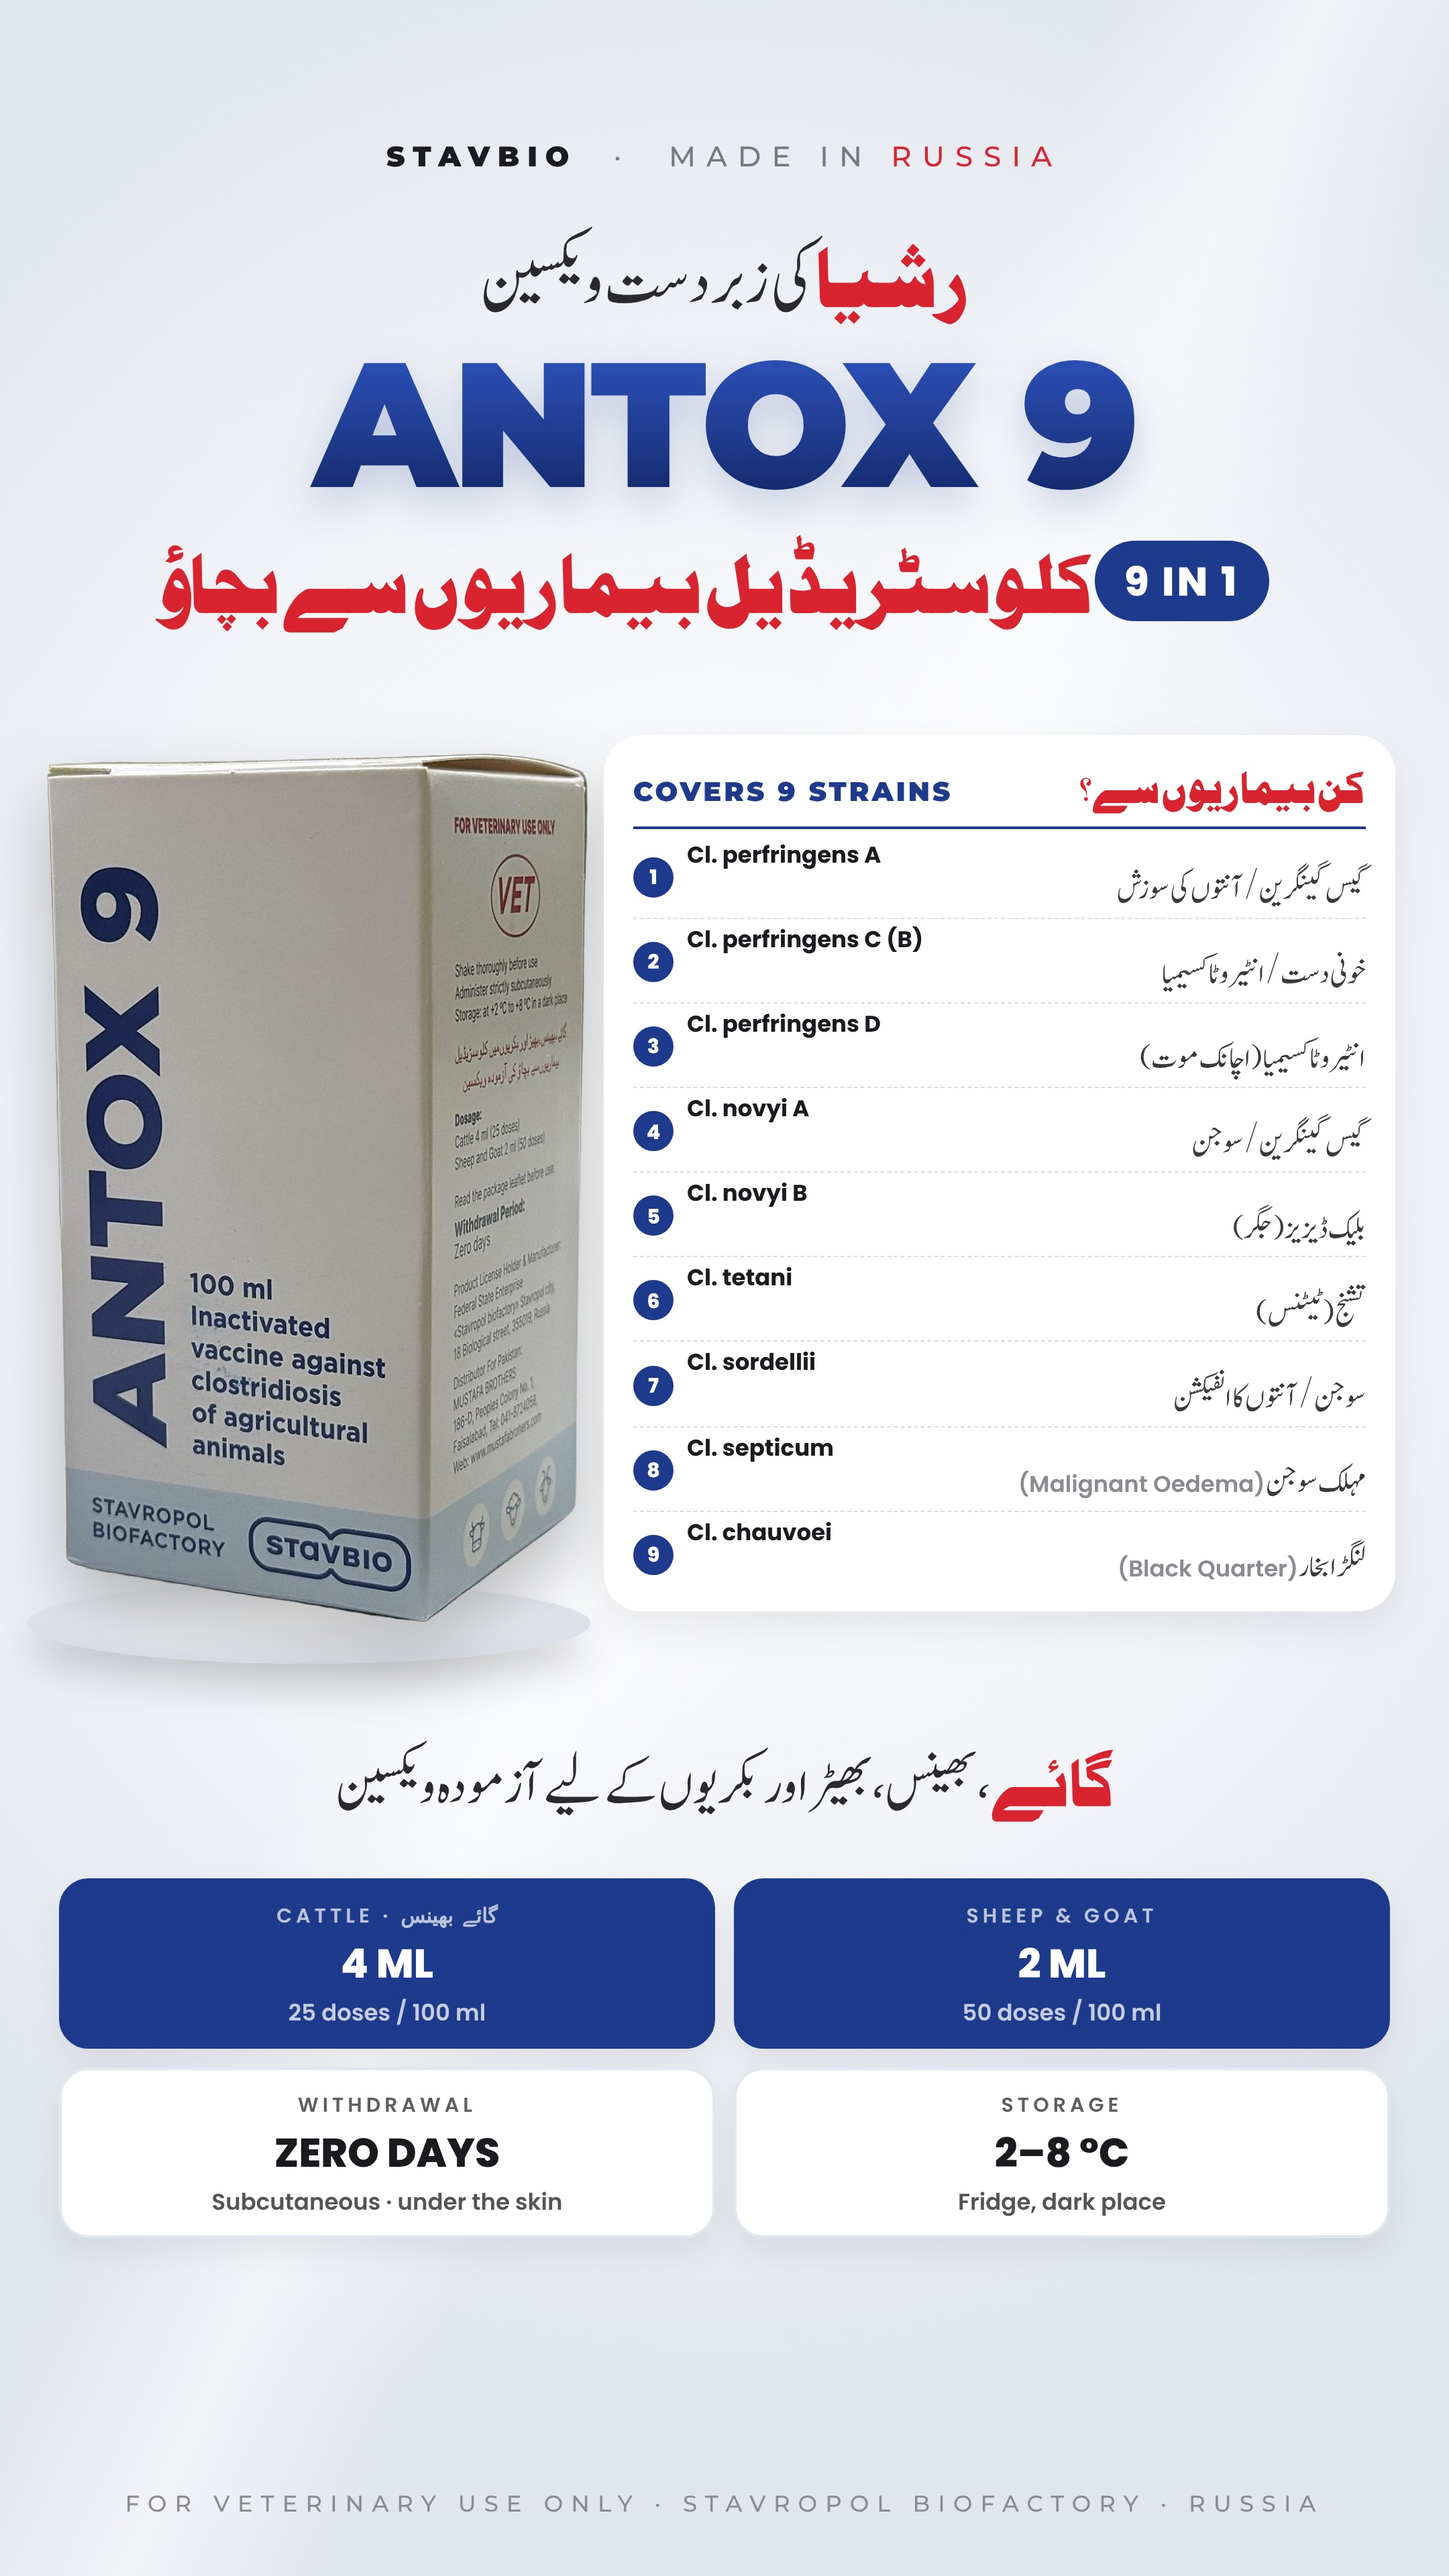
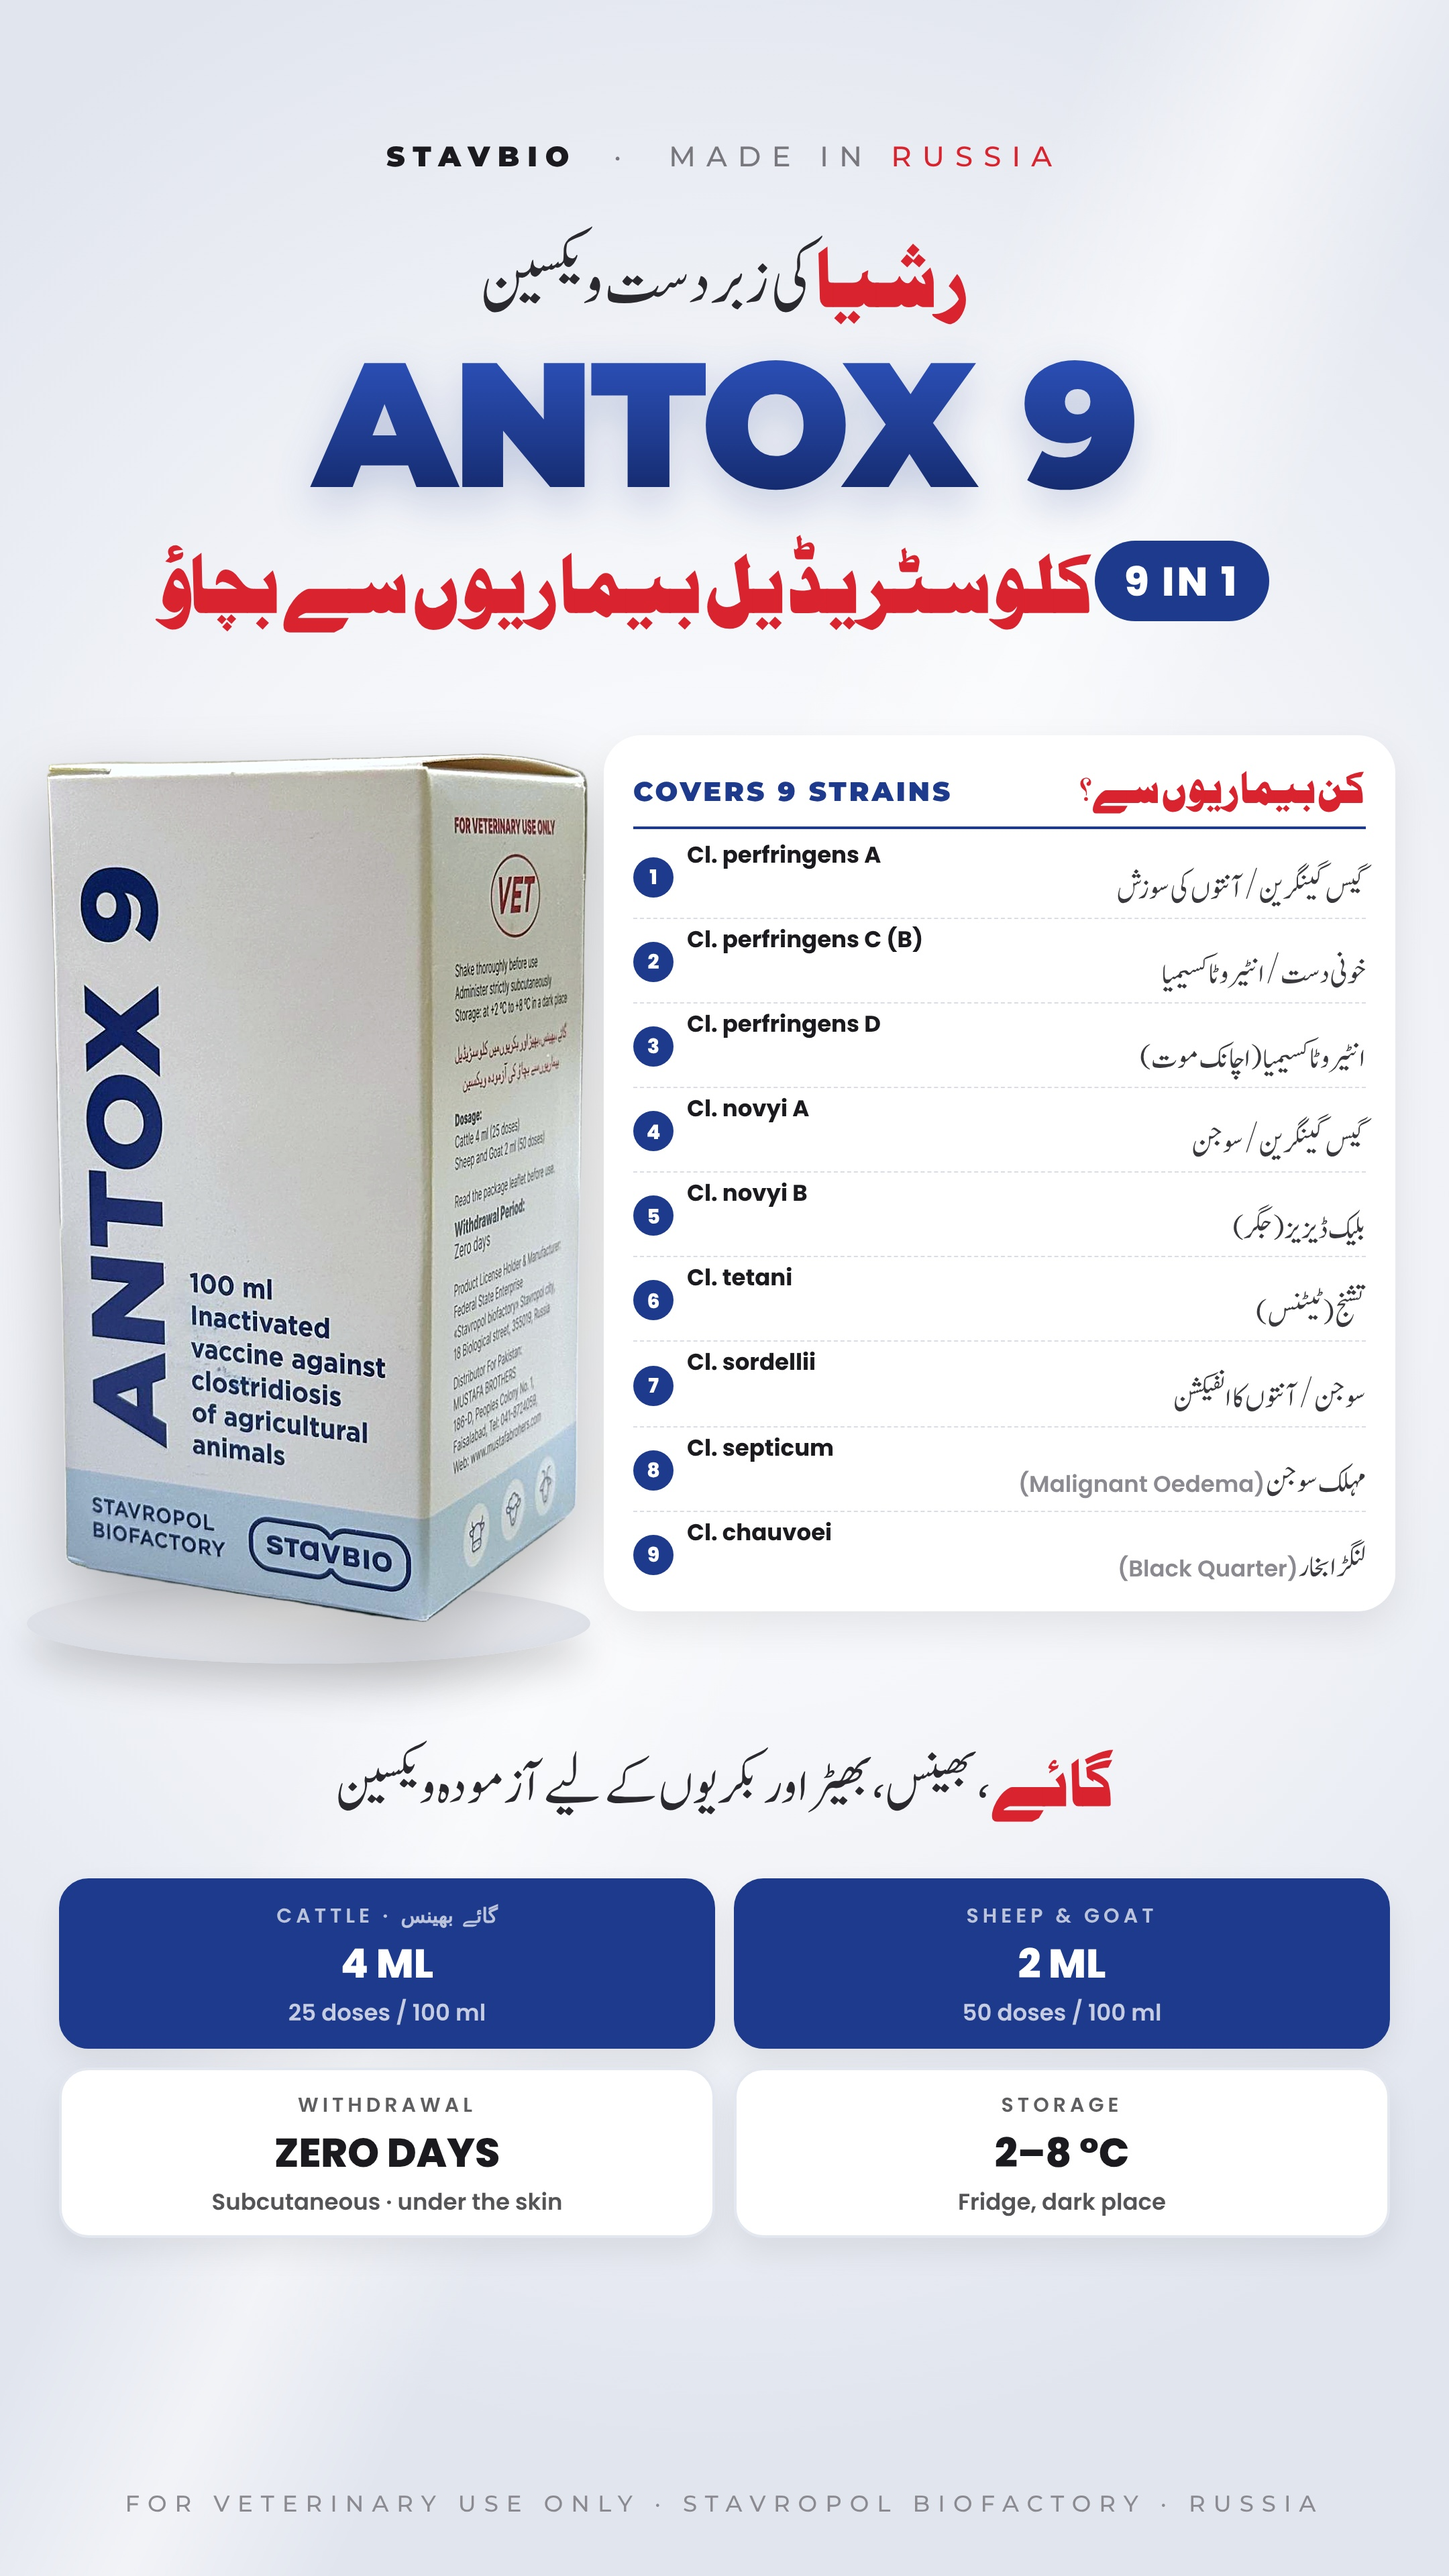
Antox 9 post: brighter, cleaner box image
Claude-Session: https://claude.ai/code/session_0139To4Bi5mkGo2BmfVPNRP3

Changed region(s): [[0.031, 0.2812, 0.4032, 0.625]]

diff --git a/tools/posts/antox9_post.py b/tools/posts/antox9_post.py
@@ -13,7 +13,14 @@ fonts=[{"family":"Noori","path":F("JameelNooriNastaleeq-400.ttf"),"weight":400,"
  {"family":"Poppins","path":F("Poppins-700.ttf"),"weight":700,"style":"normal"},
  {"family":"Poppins","path":F("Poppins-800.ttf"),"weight":800,"style":"normal"}]
 d=R/"Video Edits/Export/antox9-post"; w=d/"work"; w.mkdir(parents=True,exist_ok=True)
-im=Image.open(R/"Video Edits/Raw/antox9/box-crop-cutout.png").convert("RGBA").filter(ImageFilter.UnsharpMask(2,40,2)); box=w/"box.png"; im.save(box)
+from PIL import ImageEnhance
+im=Image.open(R/"Video Edits/Raw/antox9/box-crop-cutout.png").convert("RGBA")
+a=im.split()[3]; rgb=im.convert("RGB")
+rgb=ImageEnhance.Brightness(rgb).enhance(1.22); rgb=ImageEnhance.Contrast(rgb).enhance(1.08); rgb=ImageEnhance.Color(rgb).enhance(1.12)
+import numpy as np
+x=np.array(rgb).astype(float); x[...,2]=np.clip(x[...,2]*1.04,0,255); x[...,0]=np.clip(x[...,0]*0.98,0,255)
+rgb=Image.fromarray(x.astype("uint8")).filter(ImageFilter.UnsharpMask(2,60,2)); rgb.putalpha(a); im=rgb
+box=w/"box.png"; im.save(box)
 B="#1E3A8C"; B2="#2F55C2"; BD="#122563"; RED="#D9232E"; INK="#1B1B1F"
 rows=[("Cl. perfringens A","گیس گینگرین / آنتوں کی سوزش"),
       ("Cl. perfringens C (B)","خونی دست / انٹیروٹاکسیمیا"),
